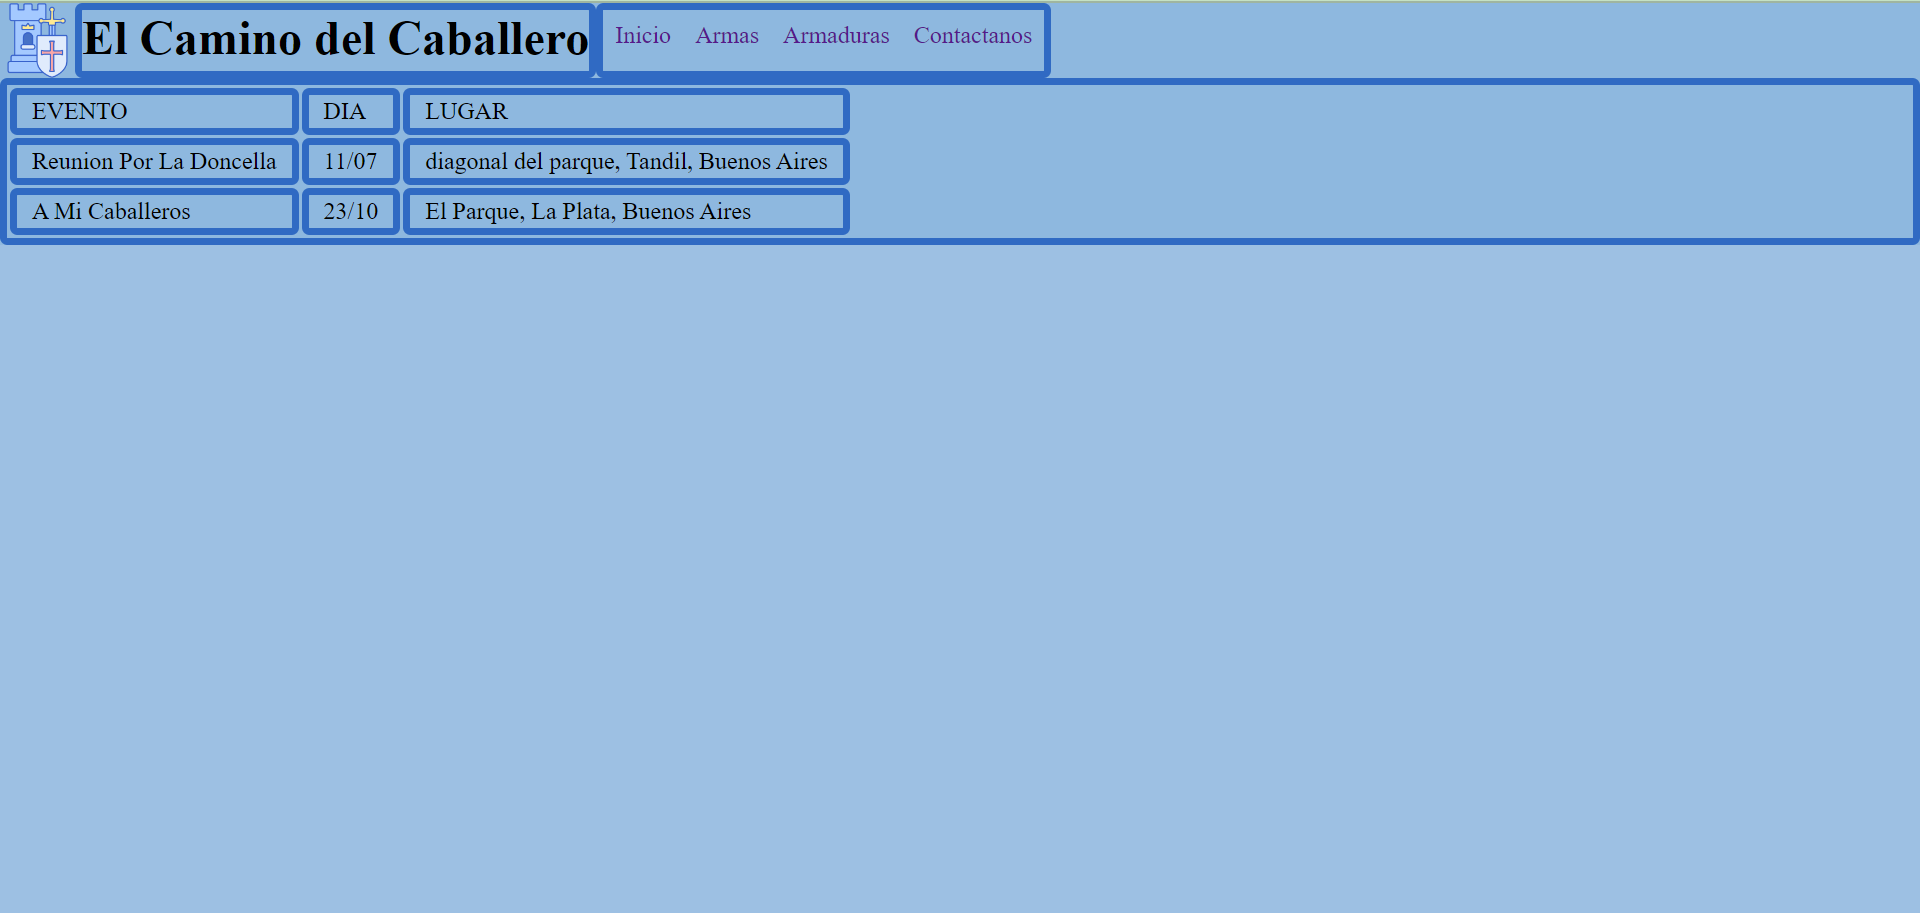
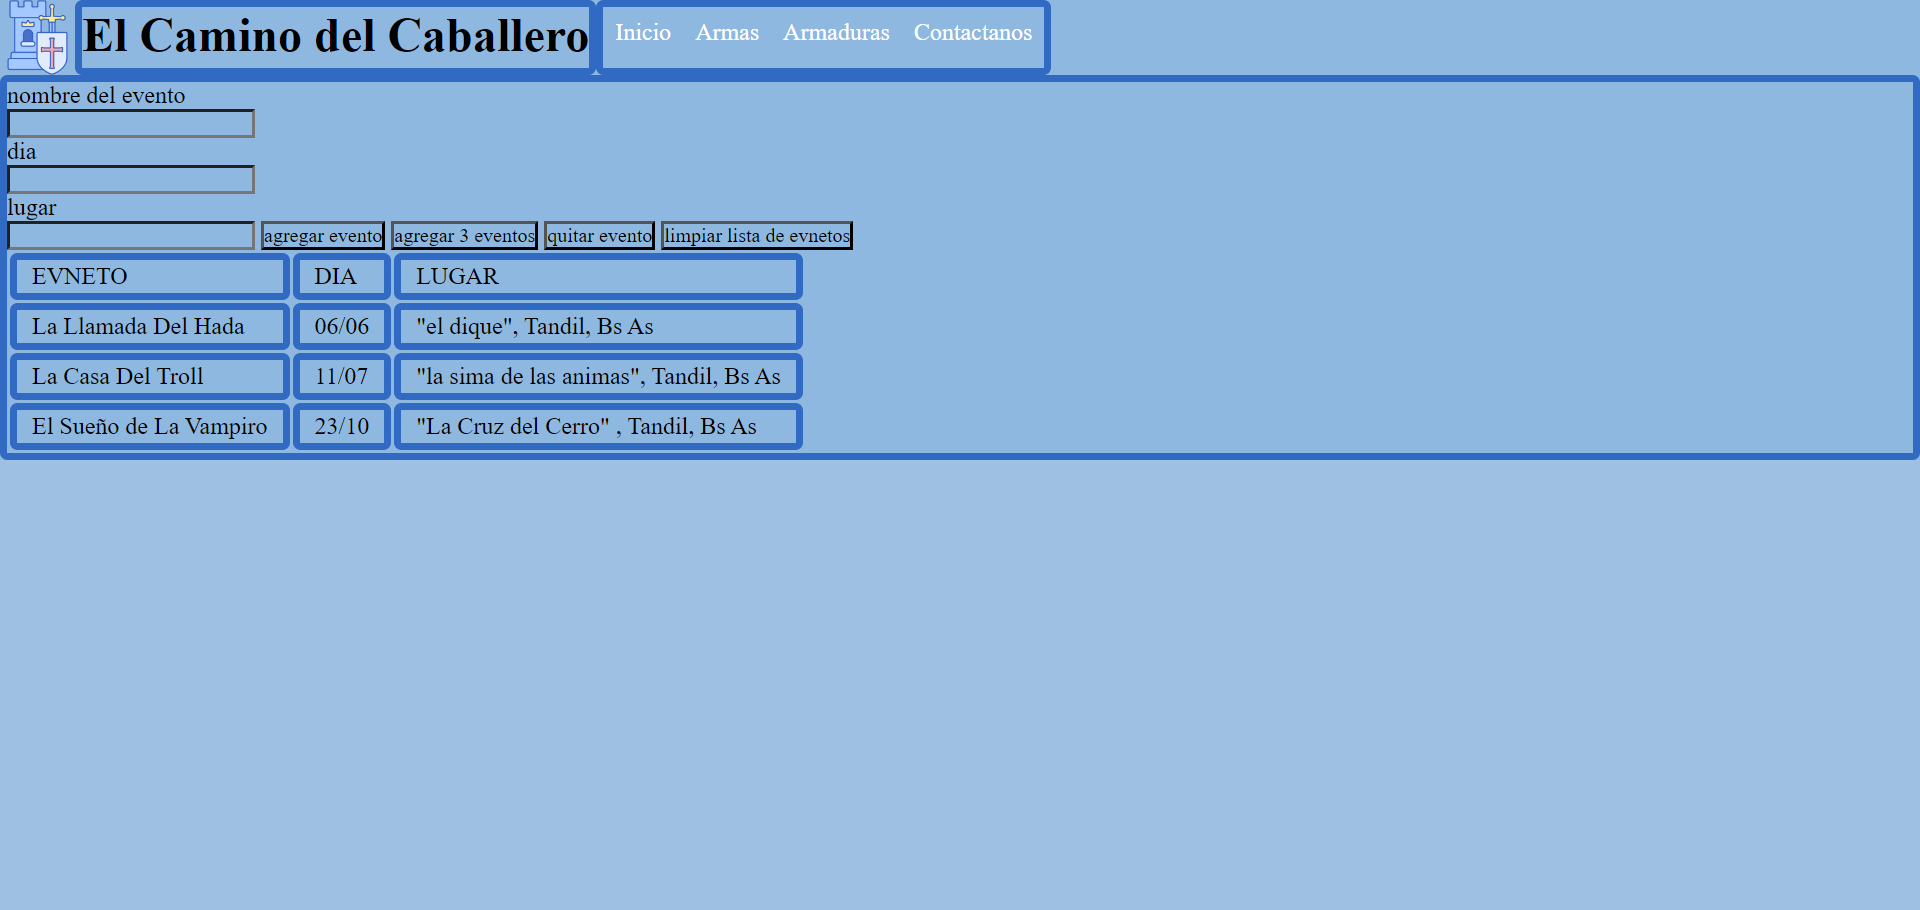
detalles pulidos segunda entrega

Changed region(s): [[0.0, 0.0, 1.0, 0.5231]]

diff --git a/js/table.js b/js/table.js
@@ -1,6 +1,42 @@
 'user strict'
-let listaevento= []
+let listaevento= [
+    {
+        nombre: 'La Llamada Del Hada',
+        dia: '06/06',
+        lugar: '"el dique", Tandil, Bs As'
+    },
+    {
+        nombre: 'La Casa Del Troll',
+        dia: '11/07',
+        lugar: '"la sima de las animas", Tandil, Bs As'
+    },
+    {
+        nombre: 'El Sueño de La Vampiro',
+        dia: '23/10',
+        lugar:'"La Cruz del Cerro" , Tandil, Bs As'
+    }]
+mostrar()
+
 document.querySelector('#btn-agregar').addEventListener('click', agregar)
+
+document.querySelector('#btn-agregar3').addEventListener('click', ()=>{
+    for(let i=0; i< 3; i++){
+        agregar()
+    }
+})
+
+
+
+document.querySelector('#btn-delete').addEventListener('click', quitaevento)
+
+document.querySelector('#btn-deleteall').addEventListener('click',()=>{
+    let canteventos= listaevento.length
+    for(let i=0; i<canteventos; i++){
+        quitaevento()
+    }
+})
+
+
 
 function agregar(){
     listaevento.push({
@@ -11,17 +47,9 @@ function agregar(){
     mostrar()
 }
 
-document.querySelector('#btn-agregar3').addEventListener('click', ()=>{
-    for(let i=0; i< 3; i++){
-        agregar()
-    }
-})
-
 function mostrar(){
-    let tabla= document.querySelector('#cont-table')
-    tabla.innerHTML=''
-    let cuerpotabla= document.createElement('tbody')
-    
+    let contenidotabla= document.querySelector('#cont-table')
+    contenidotabla.innerHTML=''
     listaevento.forEach(evento =>{
         let tr= document.createElement('tr')
 
@@ -37,16 +65,11 @@ function mostrar(){
         tdlugar.innerText= evento.lugar
         tr.appendChild(tdlugar)
 
-        cuerpotabla.appendChild(tr)
+        contenidotabla.appendChild(tr)
     })
-
-    tabla.appendChild(cuerpotabla)
-    
 }
 
-
-document.querySelector('#btn-delete').addEventListener('click', ()=>{
+function quitaevento(){
     listaevento.pop()
-
     mostrar()
-})
+}

diff --git a/home.html b/home.html
@@ -33,8 +33,18 @@
         <button id="btn-agregar"> agregar evento</button>
         <button id="btn-agregar3"> agregar 3 eventos</button>
         <button id="btn-delete"> quitar evento</button>
-        <table id="cont-table">
-            
+        <button id="btn-deleteall">limpiar lista de evnetos</button>
+        <table>
+        <thead>
+            <tr>
+                <td>EVNETO</td>
+                <td>DIA</td>
+                <td>LUGAR</td>
+            </tr>
+        </thead>
+        <tbody id="cont-table">
+
+        </tbody>
         </table>
     </section>
     <footer>
